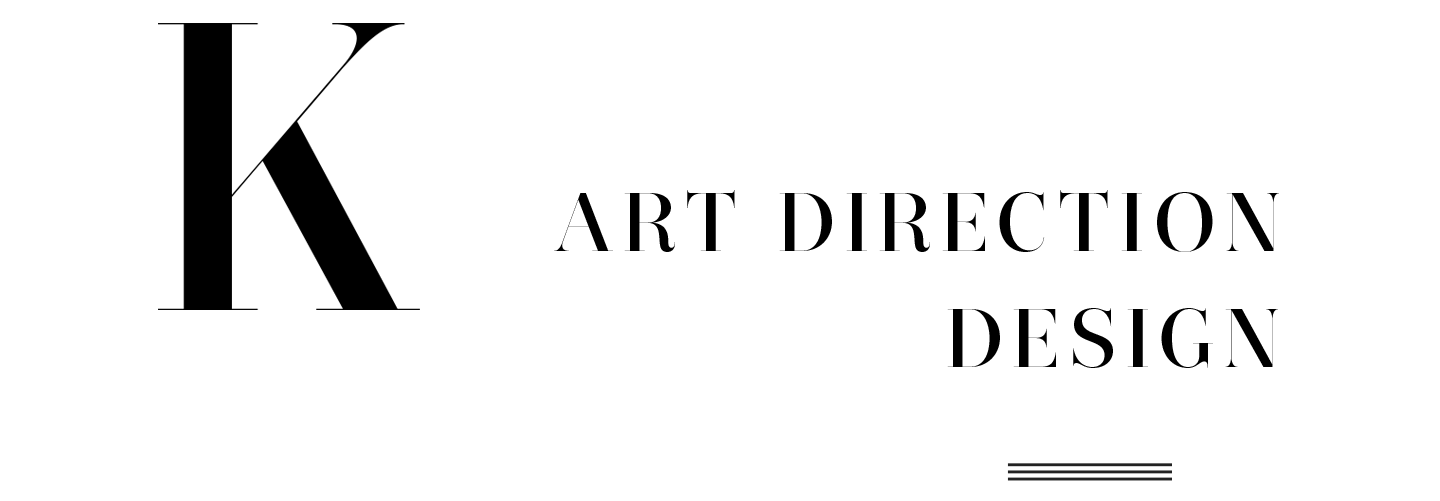
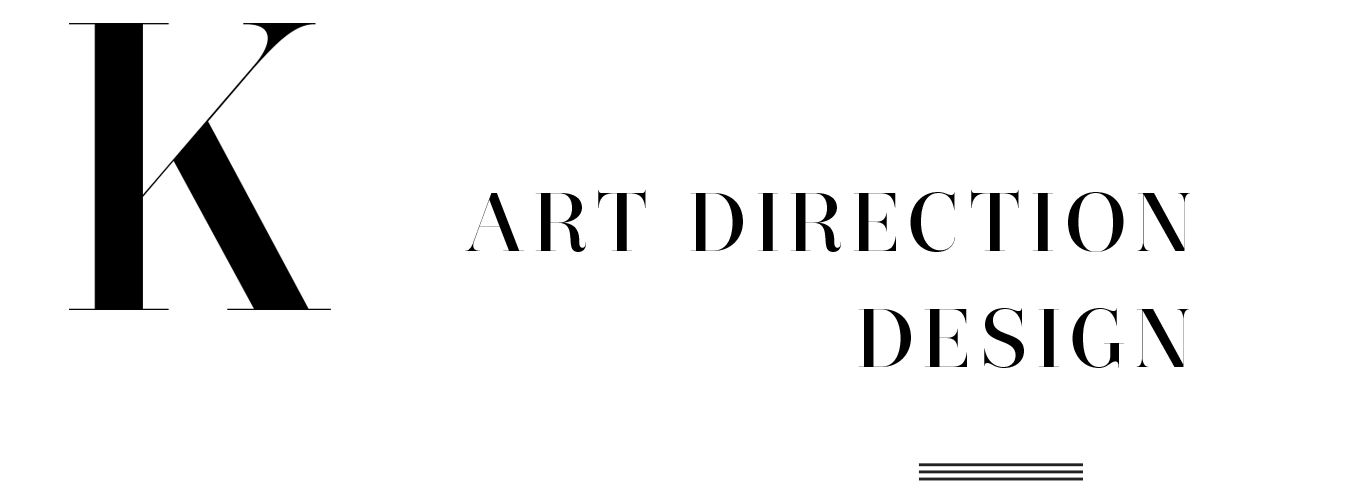
added header updated divs

diff --git a/Kendall_Gregory.html b/Kendall_Gregory.html
@@ -11,24 +11,24 @@
 
 		<img id="headerImage" src="Header.png">
 
-		<span class ="row_1">
+		<div class ="row_1">
 			<a href="#">
 				<!-- <span class = "caption"> Fade </span> -->
 				<img class="whiteOverlay left" id="Fade" src="FadeMag.png">
 			</a>
-		</span>
-		<span class ="row_1">
+		</div>
+		<div class ="row_1">
 			<a href="#">
 				<!-- <span class = "caption"> GE </span> -->
 				<img class="whiteOverlay right" id="GE" src="GE.png">
 			</a>
-		</span>
-		<span class ="row_2">
+		</div>
+		<div class ="row_2">
 			<a href="#">
 				<!-- <span class = "caption"> Patron </span> -->
 				<img class="whiteOverlay left" id="Patron" src="Patron.png">
 			</a>
-		</span>
+		</div>
 		
 		<a href="">
 			<img class="whiteOverlay right" id="ArtofHealthyHair" src="ArtofHealthyHair.png">

diff --git a/index.css b/index.css
@@ -1,6 +1,11 @@
+
 body{
 	border: black 10px solid;
+	font-family: brandon-grotesque,Arial,Helvetica,sans-serif;
+
 }
+
+
 #MenuBar{
 	text-align: center;
 	display: inline-block;
@@ -31,17 +36,19 @@ body{
 	margin-right: 70px;
 }
 
+
 /*positioning of all the images*/
 #headerImage{
 	text-align: center;
 	z-index: 7;
 	top: 50px;
+	position: absolute;
 }
 
-#Fade{ 
+/*#Fade{ 
 	position:relative;
 	top:-260px;
-	width: 937px;
+	width: 840px;
    
 }
 
@@ -49,9 +56,9 @@ body{
 	position: relative;
 	width: 349px;
 	margin-right: 127px;
-	margin-top: -600px;
 
-}
+
+}*/
 
 #Patron{
 
